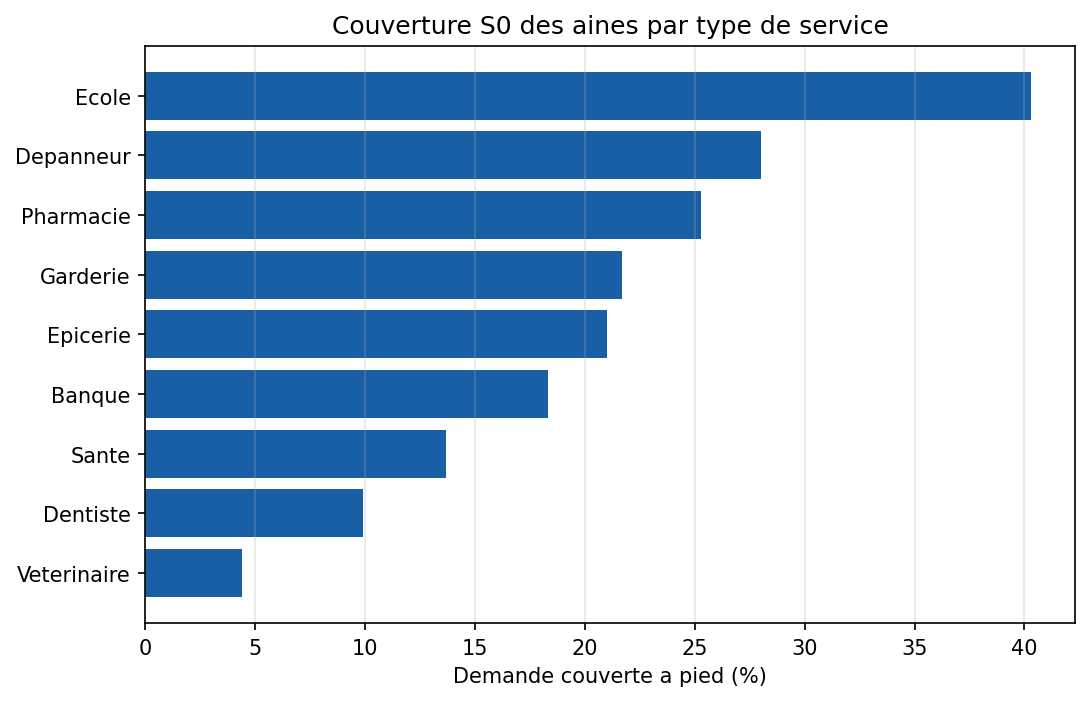
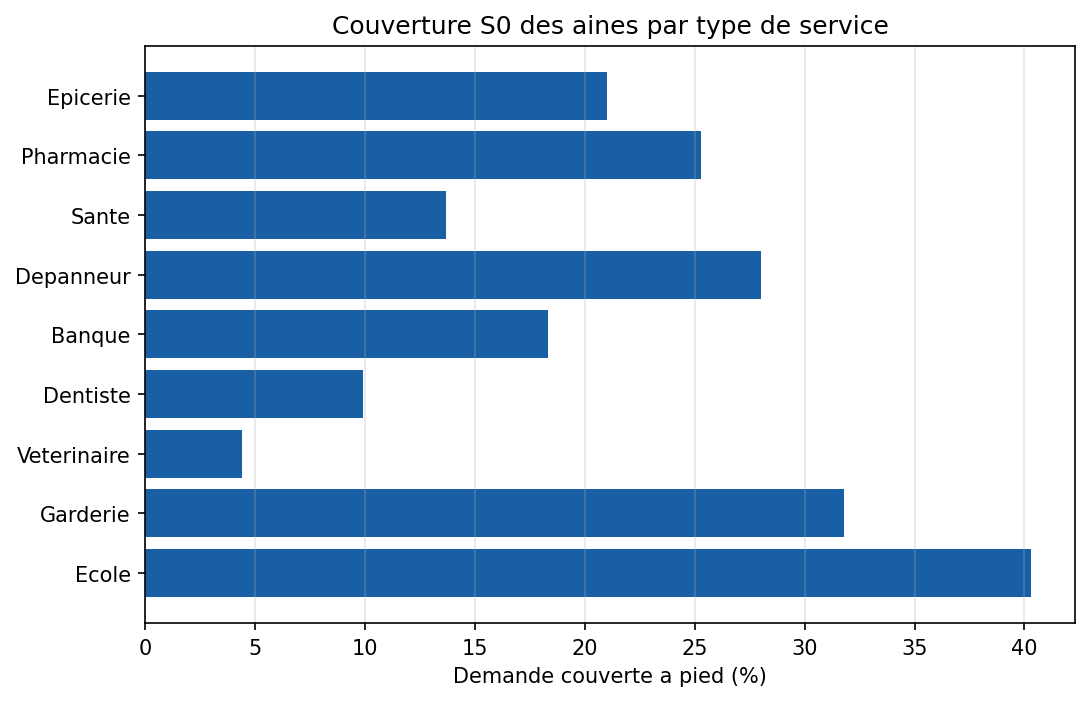
feat: order s0 coverage bars by priority and split gain curve into panels

diff --git a/src/visualization/charts.py b/src/visualization/charts.py
@@ -36,46 +36,60 @@ def _zoom_limits(values, margin):
     return low, high
 
 
-def gain_curve_chart(gains_df, path, visual_config, logger=None):
+def gain_curve_chart(gains_df, path, visual_config, weightings, logger=None):
     """Courbes de gain, part couverte selon le nombre de services ajoutes.
 
-    gains_df contient les colonnes n_services, weighting et covered_percent. Une
-    courbe est tracee par ponderation, aines et population generale. L'echelle
-    verticale est resserree sur les valeurs utilisees pour rendre le gain visible.
+    Un panneau par ponderation, cote a cote dans l'ordre de weightings. Chaque
+    panneau garde sa propre echelle verticale, car les paliers reposent sur des
+    seuils, des poids et des importances propres a la population, les hauteurs ne
+    se comparent donc pas d'un panneau a l'autre. gains_df contient les colonnes
+    n_services, weighting et covered_percent.
     """
     vc = visual_config
     weighting_labels = vc["weighting_labels"]
-    figure, axis = plt.subplots(figsize=tuple(vc["chart_figsize_gain"]))
-    all_values = []
-    for weighting, group in gains_df.groupby("weighting"):
-        group = group.sort_values("n_services")
-        all_values.extend(group["covered_percent"].tolist())
+    present = [w for w in weightings if (gains_df["weighting"] == w).any()]
+    width, height = vc["chart_figsize_gain"]
+    n_panels = max(len(present), 1)
+    figure, axes = plt.subplots(
+        1,
+        n_panels,
+        squeeze=False,
+        figsize=(width * n_panels, height),
+        layout="constrained",
+    )
+    for axis, weighting in zip(axes[0], present):
+        group = gains_df[gains_df["weighting"] == weighting].sort_values("n_services")
         axis.plot(
             group["n_services"],
             group["covered_percent"],
             marker=vc["chart_marker"],
-            label=weighting_labels.get(weighting, weighting),
         )
-    if all_values:
-        axis.set_ylim(*_zoom_limits(all_values, vc["chart_zoom_margin"]))
-    axis.set_xlabel(vc["label_chart_gain_xaxis"])
-    axis.set_ylabel(vc["label_chart_gain_yaxis"])
-    axis.set_title(vc["title_chart_gain"])
-    axis.legend(title=vc["label_chart_gain_legend"])
-    axis.grid(True, alpha=vc["chart_grid_alpha"])
+        axis.set_ylim(
+            *_zoom_limits(group["covered_percent"].tolist(), vc["chart_zoom_margin"])
+        )
+        axis.set_xlabel(vc["label_chart_gain_xaxis"])
+        axis.set_ylabel(vc["label_chart_gain_yaxis"])
+        axis.set_title(weighting_labels.get(weighting, weighting))
+        axis.grid(True, alpha=vc["chart_grid_alpha"])
+    figure.suptitle(vc["title_chart_gain"])
     _save(figure, path, vc["chart_dpi"], logger)
 
 
 def s0_coverage_chart(
-    summary_df, service_labels, title, path, visual_config, logger=None
+    summary_df, service_labels, importance, title, path, visual_config, logger=None
 ):
     """Diagramme en barres de la couverture S0 par type de service.
 
-    summary_df contient les colonnes service_type et covered_percent. Les noms de
-    services sont affiches en francais.
+    summary_df contient les colonnes service_type et covered_percent. Les services
+    sont ranges par importance pour la population visee, le plus important en haut,
+    comme l'ordre des infobulles des cartes. Les noms sont affiches en francais.
     """
     vc = visual_config
-    subset = summary_df.sort_values("covered_percent").copy()
+    subset = summary_df.sort_values(
+        "service_type",
+        key=lambda col: col.map(lambda t: importance.get(t, 0.0)),
+        kind="stable",
+    ).copy()
     subset["label"] = subset["service_type"].map(lambda t: service_labels.get(t, t))
     figure, axis = plt.subplots(figsize=tuple(vc["chart_figsize_bar"]))
     axis.barh(subset["label"], subset["covered_percent"], color=vc["color_chart_bar"])

diff --git a/main.py b/main.py
@@ -271,6 +271,7 @@ def run_pipeline():
     s0_coverage_chart(
         seniors_walk,
         labels,
+        importance_seniors,
         vc["title_s0_coverage_seniors"],
         os.path.join(
             config["paths"]["outputs_figures"], figure_files["s0_coverage_seniors"]
@@ -281,6 +282,7 @@ def run_pipeline():
     s0_coverage_chart(
         population_walk,
         labels,
+        importance_population,
         vc["title_s0_coverage_population"],
         os.path.join(
             config["paths"]["outputs_figures"], figure_files["s0_coverage_population"]
@@ -310,6 +312,7 @@ def run_pipeline():
         gains,
         os.path.join(config["paths"]["outputs_figures"], figure_files["gain_curve"]),
         vc,
+        config["optimization"]["weightings"],
         logger,
     )
     if recommended is not None and len(recommended) > 0:
